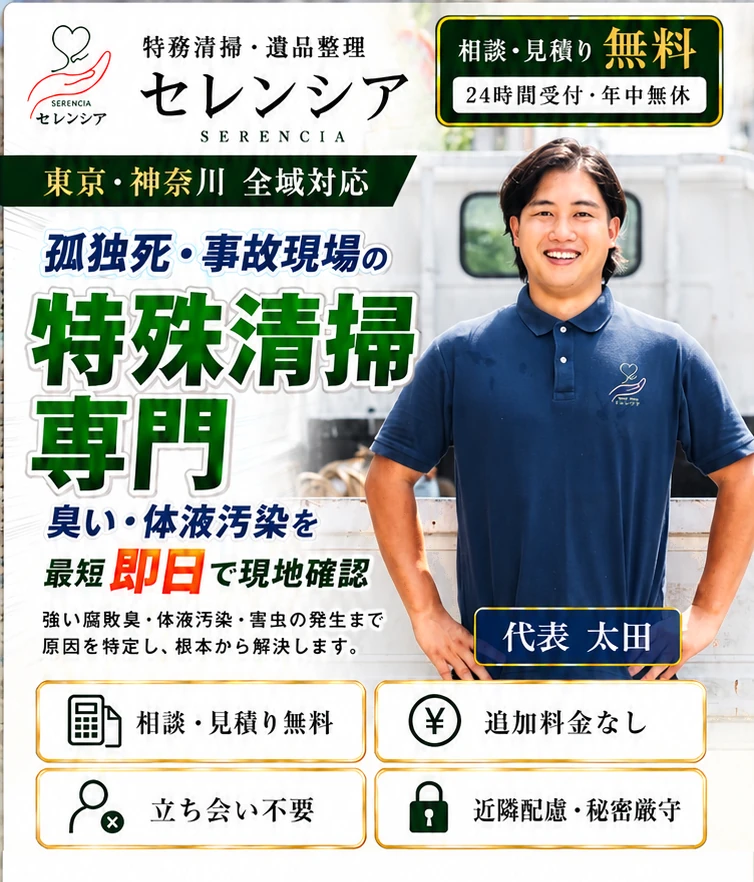
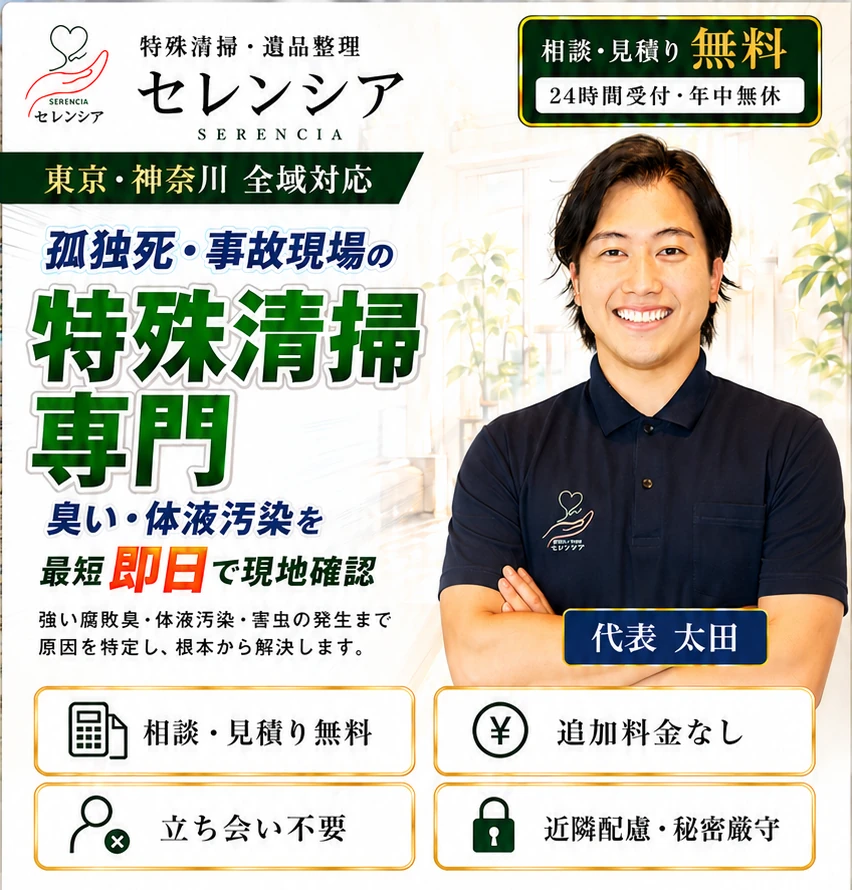
revert(kv): restore previous arms-crossed 代表 hero (kv3 reverted); bump ?v=4

diff --git a/components/mcy/McyFv.tsx b/components/mcy/McyFv.tsx
@@ -38,10 +38,10 @@ export default function McyFv() {
       <div className="flex w-full flex-col">
         {/* top: header + 全域対応 + headline + 代表 太田 + 4 benefits */}
         <img
-          src="/img/kv_top.webp?v=3"
+          src="/img/kv_top.webp?v=4"
           alt="特殊清掃・遺品整理 セレンシア。東京・神奈川 全域対応。孤独死・事故現場の特殊清掃専門。臭い・体液汚染を最短即日で現地確認。代表 太田が対応。相談・見積り無料（24時間受付・年中無休）／追加料金なし／立ち会い不要／近隣配慮・秘密厳守。"
-          width={754}
-          height={882}
+          width={852}
+          height={890}
           loading="eager"
           decoding="async"
           fetchPriority="high"
